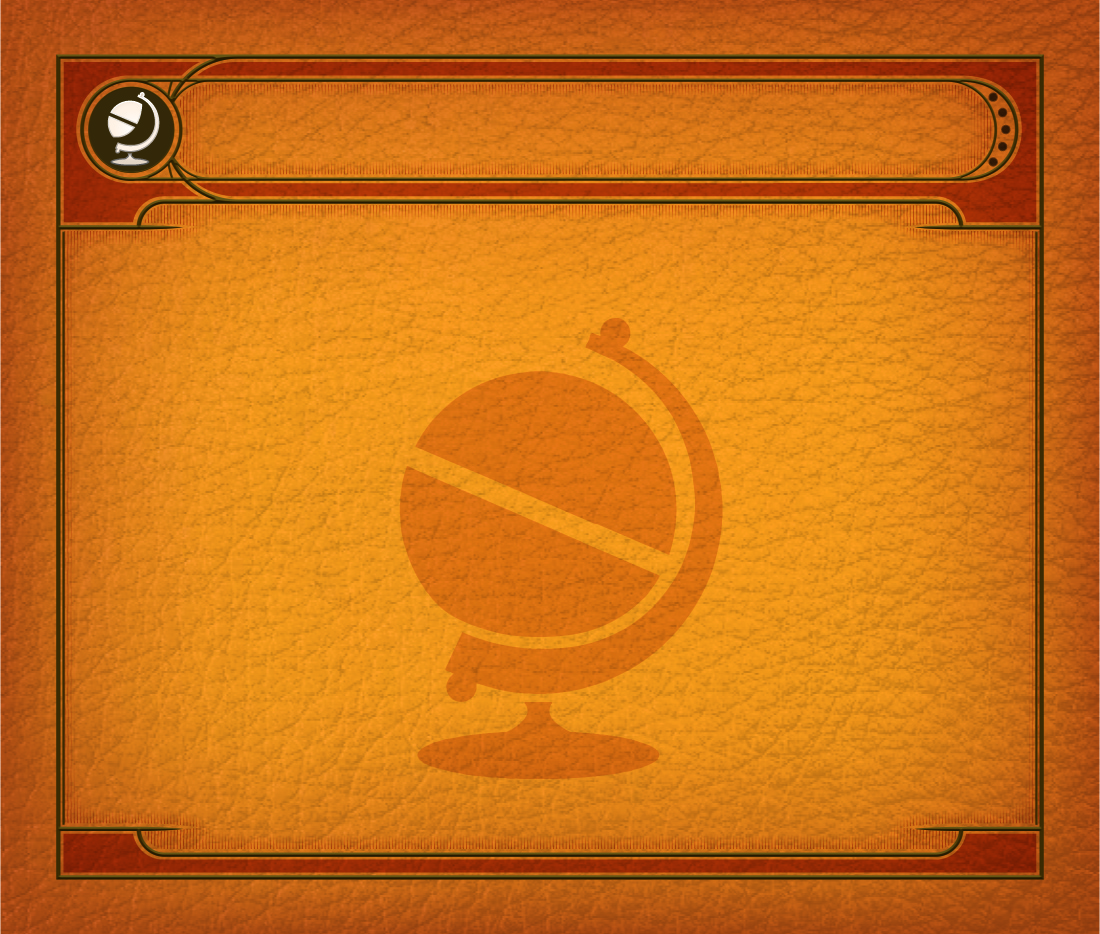
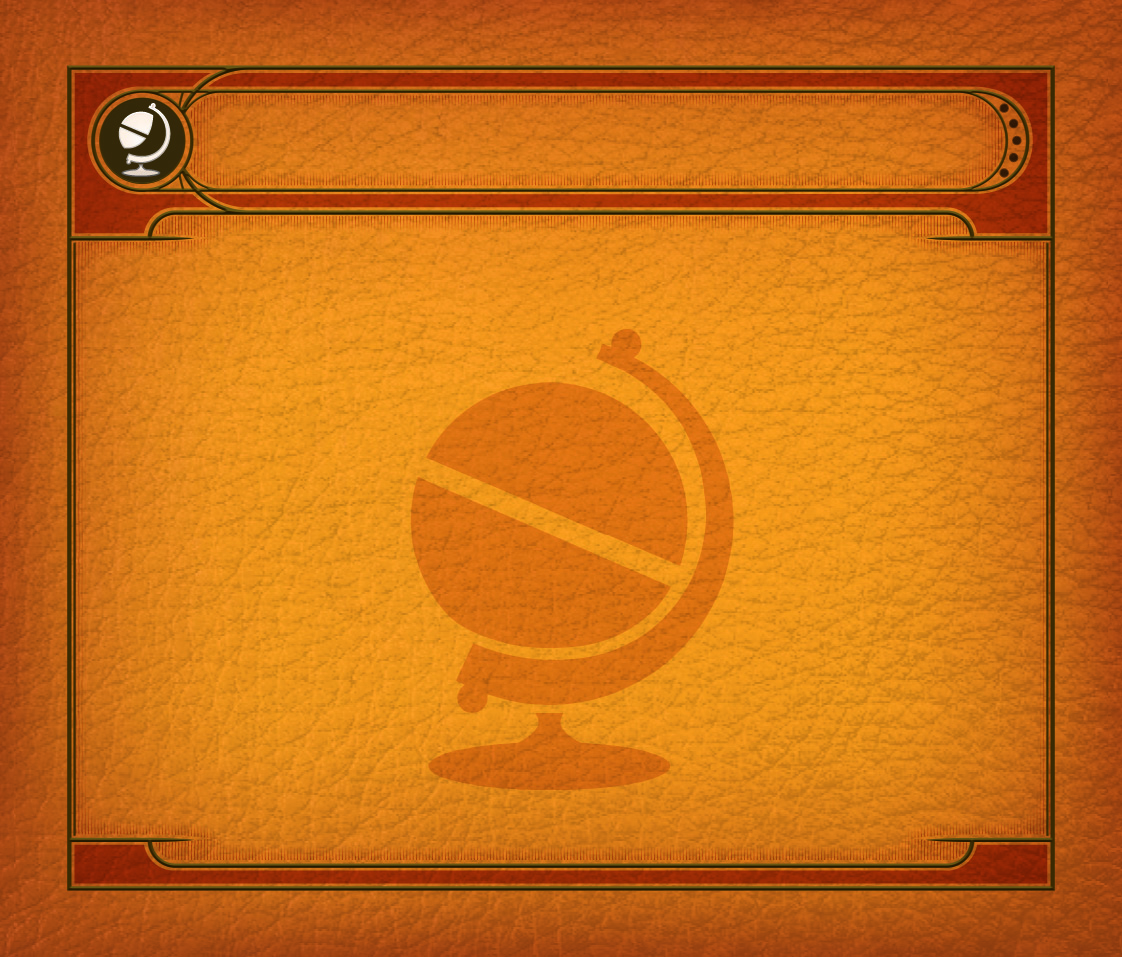
feat: sarnetsky 3mm

diff --git a/slices/modules/divider/entities/items/sarnetsky/config/layouts.ts b/slices/modules/divider/entities/items/sarnetsky/config/layouts.ts
@@ -14,11 +14,11 @@ const horizontal: DividerLayout = {
 	color: true,
 	size: createSize(89, 75),
 	types: ["scenario", "player", "investigator"],
-	bleed: 2,
+	bleed: 3,
 	printSize: {
 		300: {
 			size: createSize(1051, 886),
-			bleedSize: createSize(1098, 933),
+			bleedSize: createSize(1122, 957),
 		},
 	},
 	sleeves: [
@@ -51,11 +51,11 @@ const vertical: DividerLayout = {
 	color: true,
 	size: createSize(63, 105),
 	types: ["scenario"],
-	bleed: 2,
+	bleed: 3,
 	printSize: {
 		300: {
 			size: createSize(744, 1240),
-			bleedSize: createSize(791, 1287),
+			bleedSize: createSize(815, 1311),
 		},
 	},
 	scenarioParams: {
